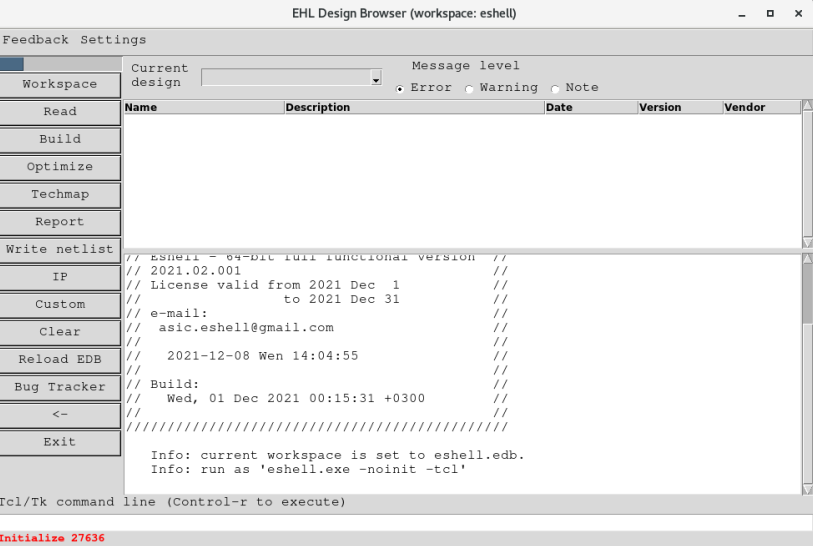
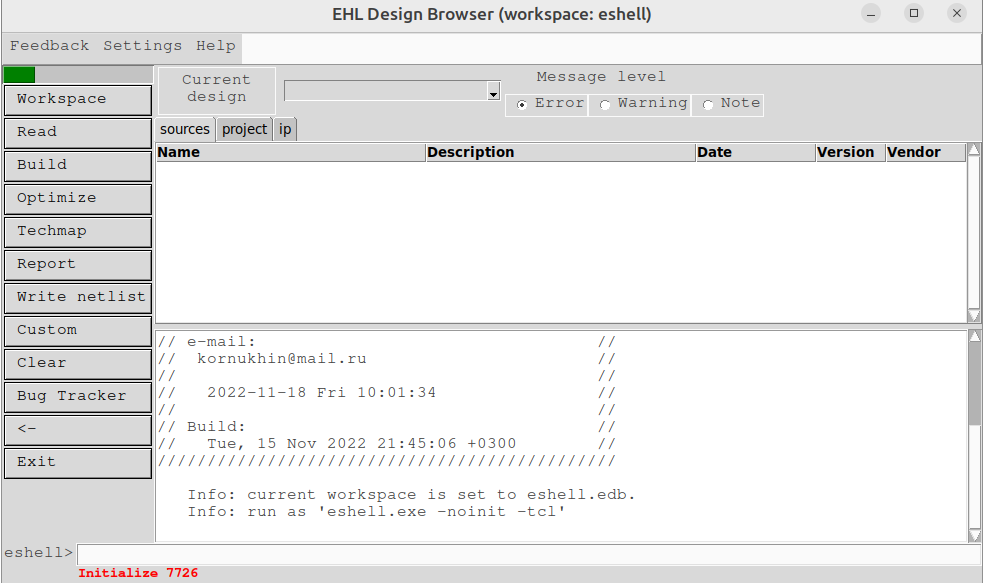
* update training to latest gui

Changed region(s): [[0.0, 0.0, 1.0, 0.9963]]

diff --git a/doc/tutorial/02_gui.html b/doc/tutorial/02_gui.html
@@ -8,8 +8,8 @@
       <hr>
       <h4>В ходе урока Вы изучите:</h4>
       <ul>
-         <li>Графический интерфейс пользователя <b>eshell</b> (EGUI);</li>
-         <li>Синтаксис файлов проектов EGUI;</li>
+         <li>Графический интерфейс пользователя <b>eshell -gui</b> (далее, <b>egui</b>);</li>
+         <li>Синтаксис файлов проектов <b>egui</b>;</li>
          <li>Механизм взаимодействия между графическим интерфейсом и консолью.</li>
       </ul>
       <hr>
@@ -18,7 +18,7 @@
       <p>Перед использованием <b>egui</b> следует настроить. <b>egui</b> представляет собой набор скриптов, написанных с применением TCL/TK, предназначенным для упрощения некоторых действий работы с <b>eshell</b> для тех, кто предпочитает графический интерфейс консоли. Один из вариантов конфигурирования <b>egui</b> - скопировать представленный далее код (с внесением соответсвующих правок) в файл <b>~/.bashrc</b>. После выполнения настройки пользователь может запускать <b>egui</b> набрав соответствующую консольную команду.</p>
       <ul><pre><CMD>export ESHELL_HOME=/home/lab_user/tools/eshell/</CMD></pre></ul>
       <ul><pre><CMD>export PATH=$PATH:$ESHELL_HOME</CMD></pre></ul>
-      <ul><pre><CMD>alias egui='wish $ESHELL_HOME/tcl/egui.tcl'</CMD></pre></ul>
+      <ul><pre><CMD>alias egui='eshell -gui'</CMD></pre></ul>
 
       <span style="color: #FF0000"><h4>УРОК</h4></span>
       <li>Откройте консоль. Перейдите в каталог урока (<b>02_gui</b>).</li>
@@ -44,12 +44,13 @@
       </ul>
       <br>
       <image src="02_main03.png"></image>
+      <p><b style="color: #FF0000">Замечание</b>. Изображение получено для устаревшей модели <b>egui</b>.</p>
       <br>
       <li>Выберит "View HDL" и просмотрите файл. Подсветка синтаксиса упрощает процесс навигации по файлу. Чтобы закрыть просмотр, выполните RMB - выберите единственное доступное действие 'Exit'. Повторите те же действия для для "Edit HDL" и заметьте, что в даном режиме подсветка синтаксиса отсутствует. Это связано с <!-- ленью разработчиков--> тем, что подсветка синтаксиса в редактируемом коде требует дополнительных вычислительных ресурсов. RMB и посмотрите доступные действия. В данном режиме появились опции, связанные с компиляцией кода.</li>
       <li>Вернитесь в основное окно и скомпилируйте файл "eth_miim.v". Убедитесь, что в выпадающем меню появился дизайн 'eth_miim'.</li>
       <li>Скомпилируйте все файлы выполнив RMB и выбрав "Compile All".</li>
       <li>Выберите 'eth_mac' в выпадающем меню. Нажмите кнопку 'build' на левой панели. Начнется процесс элаборации, который займет некоторое время, что связано с большим количество элементов памяти в дизайне. ОЗУ внтури дизайне реализованы с помощью регистров, что приводит к примерно 525K триггеров. Для упрощения дальнейшей работы уменьшим размер буферов ОЗУ.</li>
-      <li>Для этого используем прямой интерфейс управления. Внизу основного окна расположена командная строка. Нажатие клавиш 'ctrl+r' приводит к исполнению записанного в командной строке в <b>eshell</b>. Напишите <CMD>build eth_mac TX_BUFFER_SIZE 4096 RX_BUFFER_SIZE 4096</CMD> и нажмите 'ctrl+r'. После элаборации в дизайне оказывается примерно 132K триггеров.</li>
+      <li>Для этого используем прямой интерфейс управления. Внизу основного окна расположена командная строка. Нажатие клавишы 'Enter' приводит к исполнению записанного в командной строке в <b>eshell</b>. Напишите <CMD>build eth_mac TX_BUFFER_SIZE 4096 RX_BUFFER_SIZE 4096</CMD> и нажмите 'ctrl+r'. После элаборации в дизайне оказывается примерно 132K триггеров.</li>
       <br>
       <image src="02_main04.png"></image>
       <br>

diff --git a/doc/user_guide/opt/adder_tree.html b/doc/user_guide/opt/adder_tree.html
@@ -66,7 +66,7 @@
                   <pre class="small"> ADD   SUB </pre>
                   <pre class="small"> --------- </pre>
                   <pre class="small"> A0    -   </pre>
-                  <pre class="smal2"> C0    -   </pre>
+                  <pre class="smal2"> C0    B0  </pre>
                   <pre class="small"> E0    -   </pre>
                   <pre class="small"> F0    -   </pre>
                </td>
@@ -74,7 +74,7 @@
             <tr>
                <td>
                   Проводится проверка дублирования слагаемых ADD. При сложении вида <b>A + A</b> формируется бит переноса, а пара слагаемых удаляется из списка.
-                  <p>Например, если A0 = E0, и результат для разряда просто F0:</p>
+                  <p>Например, если A0 = E0, то результат для разряда просто F0:</p>
                </td>
                <td>
                   <pre class="small"> ADD   SUB   CARRY </pre>
@@ -102,7 +102,7 @@
       <p>
          По завершении выполнения алгоритма происходит расчет максимального количества операций сложения/вычитания для каждого разряда.
          Это число определяет количество сумматоров.
-         Таблицы для каждого разряда дополняются нулями до нужного количества сумматоров.
+         Таблицы для каждого разряда дополняются нулями до максимального количества сумматоров.
          Далее происходит формирование групп сумматоров в виде сбалансированного дерева, т.е. в общем виде сумматор приводится к формуле <b>(A + C) + (F - B) + (E - D)</b>.
       </p>
 <!--

diff --git a/doc/user_guide/um_techmap.html b/doc/user_guide/um_techmap.html
@@ -37,6 +37,13 @@
       <pre class="code">   XOR2 c1(.A(data_bin[1]),.B(data_bin[0]),.Q(data_gray[0]));</pre>
       <pre class="code">   endmodule</pre>
 
+      <h3>Тестовая библиотека</h3>
+      <p>
+         В составе дистрибутива <b>$ESHELL_HOME/ehl/share/src/lib/</b> располагается тестовая технологическая библиотека <b>ehl</b>.
+         Она представлена в виде RTL совместимой verilog-модели и Liberty описания.
+         В составе библиотеки находится необходимый минимум элементов, требуемых для проведения оценки аппаратных ресурсов дизайна.
+      </p>
+
       <h3>Алгоритм</h3>
       <p>1. Построение библиотеки триггеров, применимых для маппинга.</p>
       <p>2. Построение библиотеки комбинаторных элементов (1 функциональный выход, 1-6 входов. <b style="color: #FF0000">Ограничение на использование элементов с более чем 6 входами является внутренним ограничением программы.</b>).</p>
